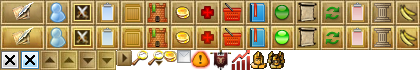
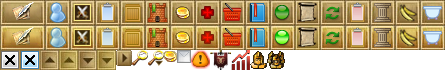
Add shortcut to guild baths Vox I in shortcuts bar (#372)

diff --git a/source/core/source/settings.js b/source/core/source/settings.js
@@ -551,6 +551,7 @@ var gca_settings = {
 					// gmr : guild market
 					// gst : guild storge
 					// gbn : guild bank
+					// gbt : guild war room
 					// gwr : guild war room
 					// gar : guild arena battle reports
 					// gjl : guild jail
@@ -563,7 +564,7 @@ var gca_settings = {
 				"shortcuts_bar_buttons" : (function(){
 					let scheme = {
 						"type" : "enumerator",
-						"values" : 'msg|gmd|gmr|gst|gbn|gwr|gar|gjl|glb|gtm|fau|sim|stt|onl'
+						"values" : 'msg|gmd|gmr|gst|gbn|gbt|gwr|gar|gjl|glb|gtm|fau|sim|stt|onl'
 					};
 					let btns = [
 						{icon : "message-icon", title : gca_locale.get("global", "message_private_write")},
@@ -571,6 +572,7 @@ var gca_settings = {
 						{icon : "market-icon", title : gca_locale.get("global", "guild_market_goto")},
 						{icon : "box-icon", title : gca_locale.get("global", "guild_storage_goto")},
 						{icon : "gold-icon", title : gca_locale.get("global", "guild_bank_goto")},
+						{icon : "bathtub-icon", title : gca_locale.get("global", "guild_baths_goto")},
 						{icon : "report-icon", title : gca_locale.get("global", "guild_warcamp_goto")},
 						{icon : "report2-icon", title : gca_locale.get("global", "guild_arenareports_goto")},
 						{icon : "castle-icon", title : gca_locale.get("global", "guild_jail_goto")},

diff --git a/source/core/source/global.js b/source/core/source/global.js
@@ -983,6 +983,18 @@ var gca_global = {
 							}, false);
 						}
 						
+						// Create a Link to guild's baths vox 1
+						if(activeButtons.indexOf("gbt") >= 0){
+							button = document.createElement('div');
+							button.className = "icon-out";
+							link = document.createElement('a');
+							link.className = "icon bathtub-icon";
+							link.href = gca_getPage.link({"mod":"guild_bath","submod":"guild_shoutbox"});
+							link.title = gca_locale.get("global", "guild_baths_goto");
+							button.appendChild(link);
+							shortcutsBar.appendChild(button);
+						}
+
 						// Create a Link to guild's war camp
 						if(activeButtons.indexOf("gwr") >= 0){
 							button = document.createElement('div');

diff --git a/source/core/locale/el.js b/source/core/locale/el.js
@@ -70,6 +70,7 @@ gca_languages["gr"] = {
 			guild_market_goto: "Πήγαινε στην αγορά τάγματος",
 			guild_storage_goto: "Πήγαινε στην αποθήκη τάγματος",
 			guild_bank_goto: "Πήγαινε την τράπεζα τάγματος",
+			guild_baths_goto: "Πήγαινε στα λουτρά τάγματος (Vox I)",
 			guild_warcamp_goto: "Πήγαινε στην αίθουσα του άρχοντα του πολέμου",
 			guild_arenareports_goto: "Πήγαινε στις ταγματικές αναφορές μάχης αρένας",
 			guild_jail_goto: "Πήγαινε στην φυλακή τάγματος",

diff --git a/source/core/resources/style_gca.css b/source/core/resources/style_gca.css
@@ -124,6 +124,8 @@
 	.pillar-icon:hover{background: transparent url('buttons/main_buttons.png') -370px -25px no-repeat;}
     .food-icon{background: transparent url('buttons/main_buttons.png') -395px 0px no-repeat;}
 	.food-icon:hover{background: transparent url('buttons/main_buttons.png') -395px -25px no-repeat;}
+	.bathtub-icon{background: transparent url('buttons/main_buttons.png') -420px 0px no-repeat;}
+	.bathtub-icon:hover{background: transparent url('buttons/main_buttons.png') -420px -25px no-repeat;}
 
 /* Auction Status Bar */
 	#AuctionStatusDiv{position: absolute; z-index: 10; top: 111px; right: 75px;}

diff --git a/source/core/locale/en.js b/source/core/locale/en.js
@@ -70,6 +70,7 @@ gca_languages["en"] = {
 			guild_market_goto : "Go to guild's market",
 			guild_storage_goto : "Go to guild's storage",
 			guild_bank_goto : "Go to guild's bank",
+			guild_baths_goto: "Go to guild's baths (Vox I)",
 			guild_warcamp_goto : "Go to guild's war camp",
 			guild_arenareports_goto : "Go to guild's arena battle reports",
 			guild_jail_goto : "Go to guild's jail",

diff --git a/source/core/source/guild.baths.js b/source/core/source/guild.baths.js
@@ -10,7 +10,7 @@ var gca_guild_baths = {
 		if (gca_section.submod == 'guild_shoutbox') {
 
 			// Room 1
-			if (gca_getPage.parameter('room') == 1) {
+			if (gca_getPage.parameter('room') == 1 || (gca_getPage.parameter('room')===undefined)) {
 				// Announcements / Pin message button
 				(gca_options.bool("global","check_guild_pinned_message") && 
 					this.layout.pinMessageButton());

diff --git a/PROGRESS.md b/PROGRESS.md
@@ -1,7 +1,7 @@
 ## Progress on Version 4.3.6 [Beta]
 
 ![version type](https://img.shields.io/badge/version-beta-yellow.svg?style=flat-square)
-![improvements](https://img.shields.io/badge/improvements-10-green.svg?style=flat-square)
+![improvements](https://img.shields.io/badge/improvements-11-green.svg?style=flat-square)
 ![bug fixes](https://img.shields.io/badge/bug%20fixes-6-red.svg?style=flat-square)
 ![translations](https://img.shields.io/badge/translations-6-blue.svg?style=flat-square)
 
@@ -11,6 +11,7 @@
 	- [x] Item names in forge/smelt timers tooltip are now colored based on item quality (by @MiguelSOliveira)
 	- [x] Show mercenary real name: Names are now translated automatically if previously seen in auction
 	- [x] Menu shortcuts: added new auction menu entry [+] with various shortcuts
+	- [x] Shortcuts bar: added button to guild baths Vox I (#372)
 - **Auction**
 	- [x] Show item names (disabled by default, by @MiguelSOliveira)
 - **Accessibility**
